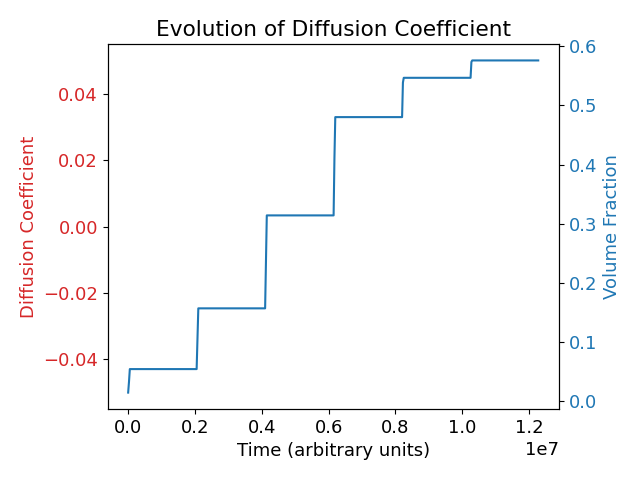
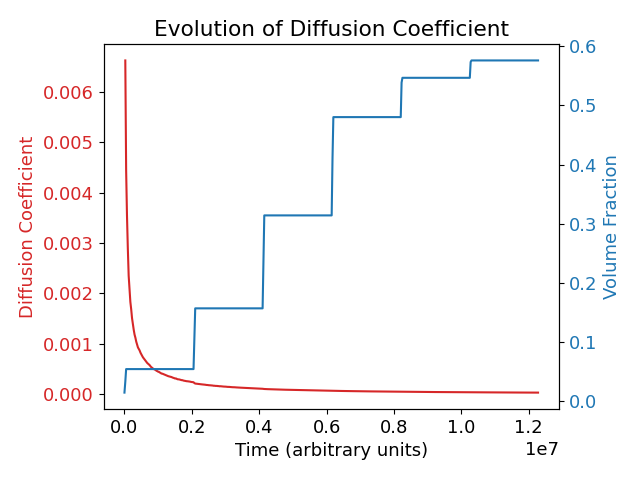
scalar diffusion coefficient sampling

diff --git a/Phase_Structure/Nunchucks/Fixed_Rigidity/diffusion_coeff.py b/Phase_Structure/Nunchucks/Fixed_Rigidity/diffusion_coeff.py
@@ -19,6 +19,7 @@ file_name = "log.lammps"
 log_file = open(file_name, "r")
 mix_steps_values = []
 
+
 for i, line in enumerate(log_file):
     """For loop iteratres over every line in file to find the required variables.
 
@@ -75,20 +76,22 @@ print(
     + str((N_molecules, run_time, dump_interval))
 )
 
+# GENERATE LIST OF TIME STEPS TO SAMPLE
 
-def find_separation(pos1, pos2, box_dim):
-    """Finds separation between two positions
+sampling_times = np.zeros((len(mix_steps_values), 2))
+# Gives start and end times for each equillibrium run
+time_counter = 0
+for i in range(len(mix_steps_values)):
+    time_counter += mix_steps_values[i]
+    sampling_times[i, 0] = time_counter
+    time_counter += equilibrium_time
+    sampling_times[i, 1] = time_counter
 
-    This method finds the minimum separation, accounting for the periodic BC
-    pos1, pos2 are the position vectors of the two points
-    box_dim is a vector (of equal length) giving the dimensions of the simulation region"""
-    separation = pos1 - pos2
-    for i in range(len(pos1)):  # should be 3 dimensional
-        if np.abs(pos1[i] - pos2[i]) > box_dim[i] / 2:
-            # use distance to ghost instead
-            separation[i] = box_dim[i] - np.abs(pos1[i] - pos2[i])
+assert time_counter == run_time, "Unexpected result in sampling times"
 
-    return np.linalg.norm(separation)
+print(sampling_times)
+
+# CALCULATE THE RMS DISPLACEMENT
 
 
 def rms_displacement(pos_t, pos_0, box_dim):
@@ -109,6 +112,11 @@ def rms_displacement(pos_t, pos_0, box_dim):
 
 rms_disp_values = np.zeros(len(time_range))
 volume_values = np.full(len(time_range), np.nan)  # new array of NaN
+
+# for sampled measurements:
+sampled_D_values = np.full(len(mix_steps_values), np.nan)
+sampled_vol_values = np.full(len(mix_steps_values), np.nan)
+
 for i, time in enumerate(time_range):  # interate over dump files
     data_file = open(FILE_ROOT + str(time) + ".dump", "r")
     extract_atom_data = False  # start of file doesn't contain particle values
@@ -169,8 +177,27 @@ for i, time in enumerate(time_range):  # interate over dump files
             com_positions, initial_positions, box_dimensions
         )  # evaluate <x^2> at time t
 
-    print("T = " + str(time) + "/" + str(run_time))
+    # For specific sample measurement
 
+    if time in sampling_times:
+        where_output = np.where(sampling_times == time)
+        indices = (where_output[0][0], where_output[1][0])
+        if indices[1] == 0:  # start of sampling period
+            initial_sample = com_positions
+            sampled_vol_values[indices[0]] = box_volume
+        else:  # end of sampling period
+            sampled_rms = rms_displacement(
+                com_positions, initial_sample, box_dimensions
+            )  # initial sample taken from previous iteration in if clause
+            sampled_D_values[indices[0]] = sampled_rms / (6 * equilibrium_time)
+            # D value for i-th equillibration period
+        print(time, box_volume, indices)
+
+    # print("T = " + str(time) + "/" + str(run_time))
+
+
+print(sampled_D_values)
+print(sampled_vol_values)
 
 time_range[0] = 1  # avoid divide by zero error, will be ignored anyway
 diffusion_coeff_values = (
@@ -209,8 +236,14 @@ plt.savefig("order_and_diffusion.png")
 plt.show()
 
 plt.plot(vol_frac(volume_values), diffusion_coeff_values, "rx")
-plt.ylabel("Order Parameter")
+plt.ylabel("Diffusion Coefficient")
 plt.xlabel("Volume Fraction")
 plt.savefig("order_vs_diffusion.png")
+plt.show()
+
+plt.plot(sampled_vol_values, sampled_D_values, "bx")
+plt.ylabel("Diffusion Coefficient")
+plt.xlabel("Volume Fraction")
+plt.savefig("order_vs_diffusion_sampled.png")
 plt.show()
 
